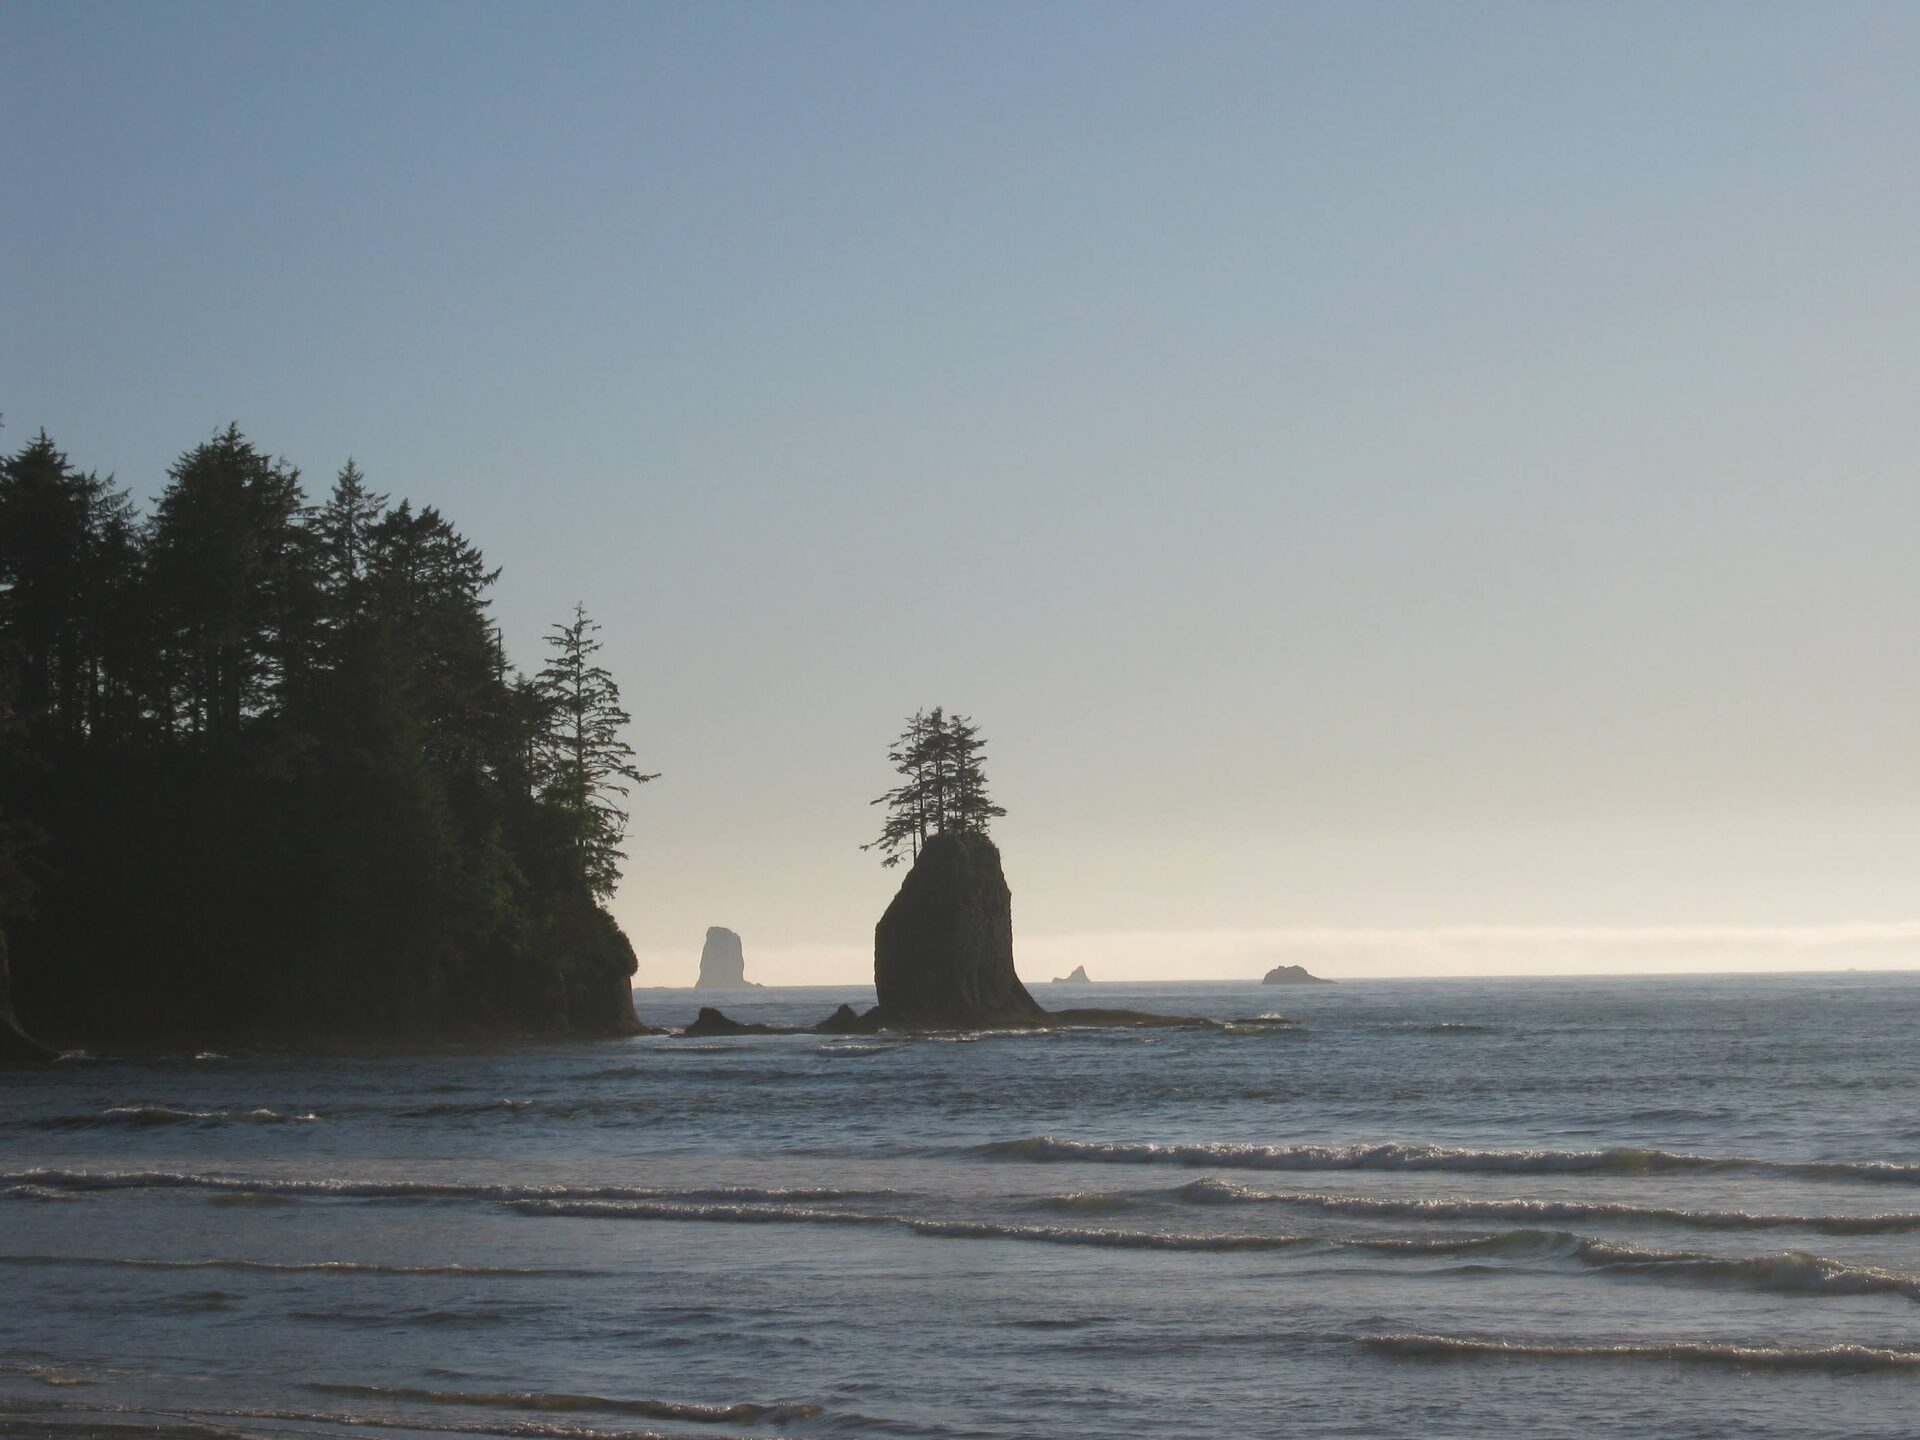
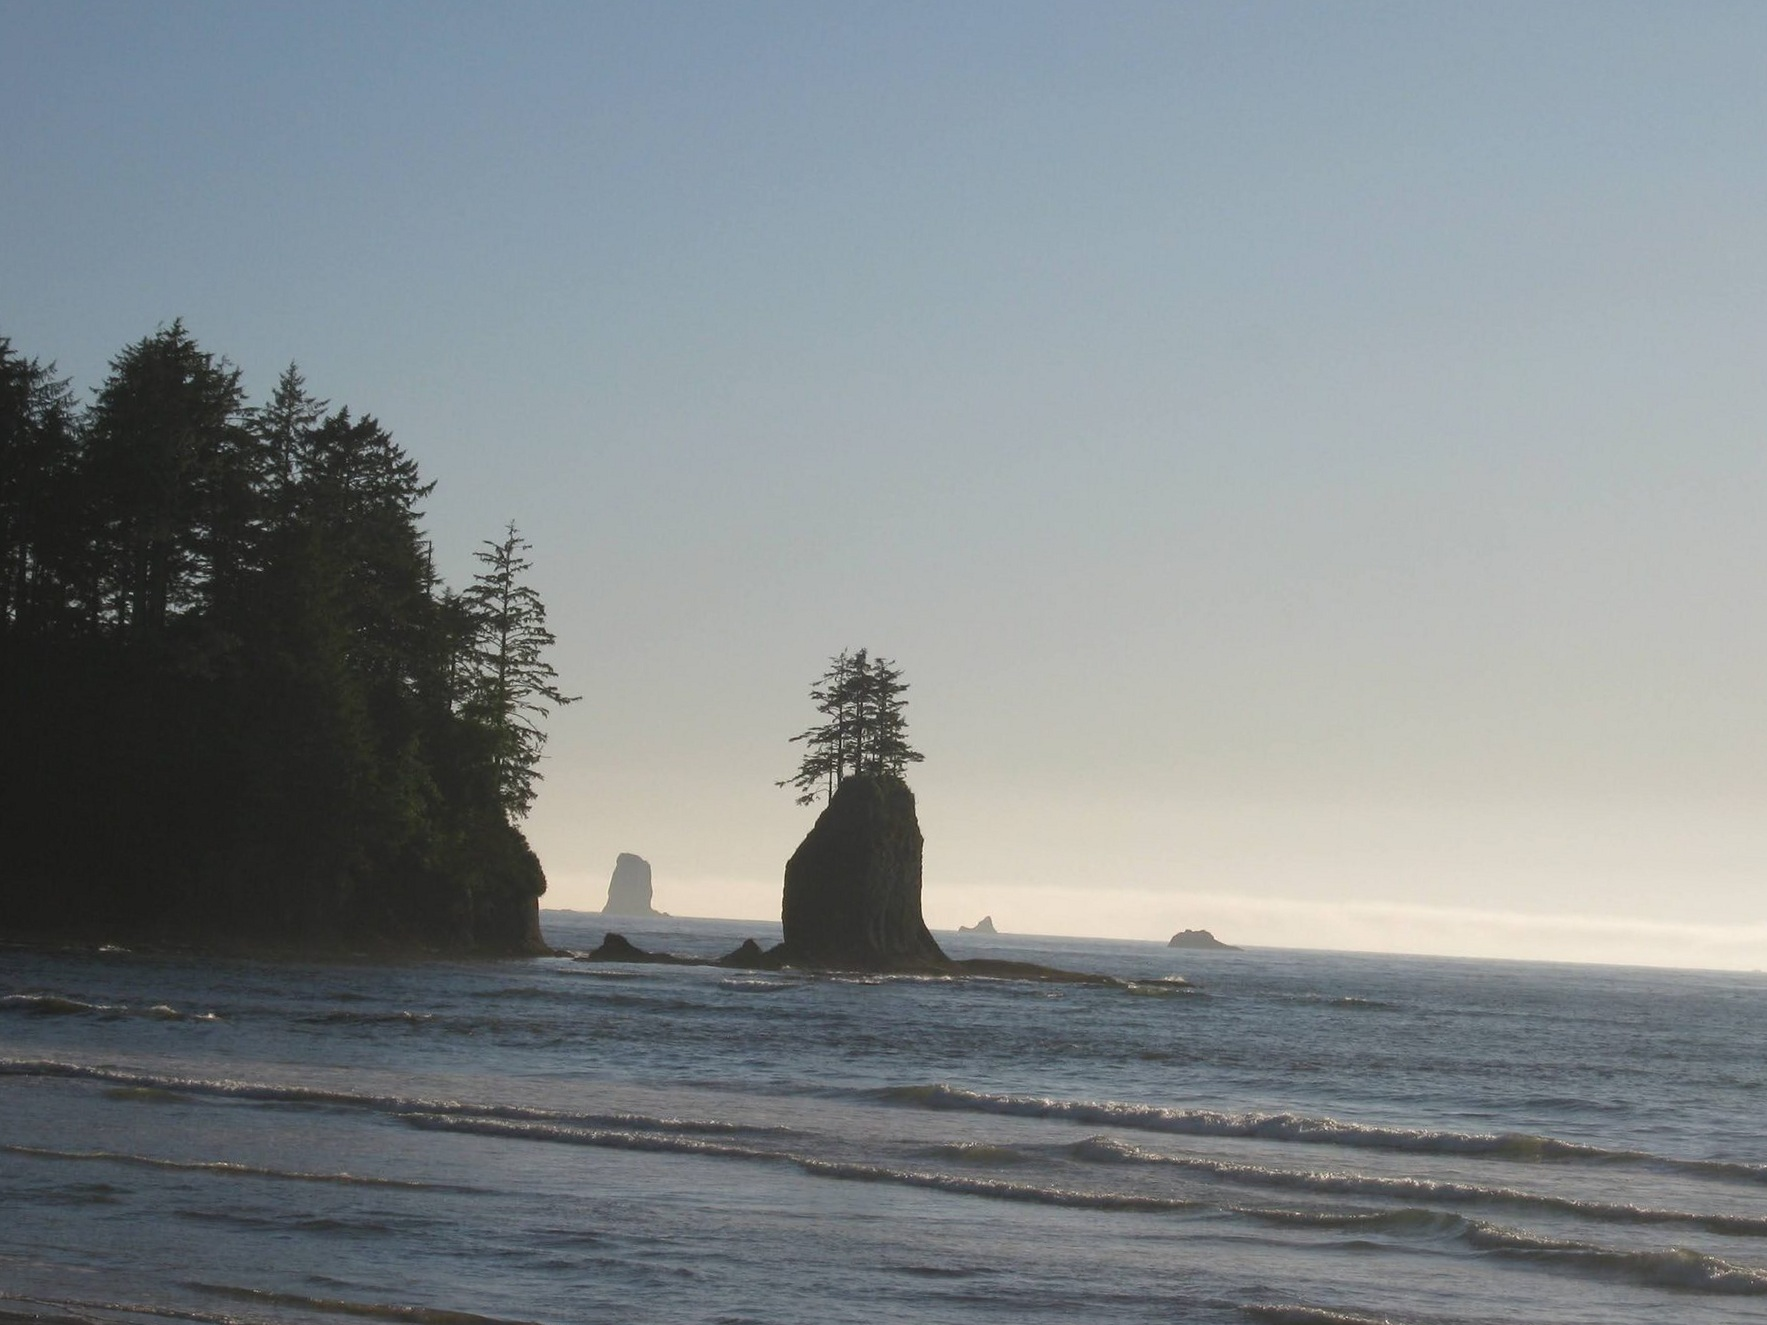
Level tilted horizon in gallery photo; remove divider line on Projects/Gallery headers
- digi-ozzette-17.jpg (sea stacks / Second Beach shot): horizon was
  tilted ~3.8° (measured the sky-water transition across the frame).
  Rotated to level and cropped to the largest safe inscribed
  rectangle so there's no black border from the rotation.
- Removed the border-top divider line above "Projects" and "Pictures,
  pictures, pictures", and reduced the padding above both headings
  now that the line isn't there to separate from the header.

diff --git a/styles.css b/styles.css
@@ -465,7 +465,7 @@ main.about-page {
 }
 
 .page-head {
-  border-top: 1px solid var(--line); padding-top: 56px; margin-bottom: 24px;
+  padding-top: 24px; margin-bottom: 24px;
 }
 
 .page-display {
@@ -790,7 +790,7 @@ main.about-page {
   padding-bottom: clamp(60px, 9vw, 100px);
 }
 
-.gallery-intro { border-top: 1px solid var(--line); padding-top: 56px; margin-bottom: 28px; }
+.gallery-intro { padding-top: 24px; margin-bottom: 28px; }
 
 .gallery-cat { margin-bottom: clamp(48px, 7vw, 80px); }
 .gallery-cat-label {
